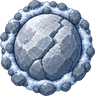
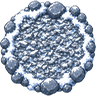
Îles Écume : le rocher tombe, des éboulis bouchent le trou (choix A de Kevin)
Le trou bouché montrait un rocher entier coincé et le texte « Le rocher a
dévalé dans le trou ! » : on ne savait pas si le rocher tombait ou bouchait
le trou. Image du trou bouché repeinte en éboulis (gravats, éclats de glace,
source Codex, tools/art/trou_ecume_eboulis.py) ; texte T-15 : « Le rocher
est tombé à l'étage du dessous ! Des éboulis ont bouché le trou. »

diff --git a/tools/art/trou_ecume_eboulis.py b/tools/art/trou_ecume_eboulis.py
@@ -1,0 +1,39 @@
+"""Trou bouché des Îles Écume, version « éboulis » (retour de Kevin, 2026-11-13).
+
+Le rocher poussé dans un trou tombe à l'étage du dessous : le trou bouché montre des gravats et des
+éclats de glace, plus un rocher entier. Source : `build/art/DECAL_TROU_ECUME_EBOULIS_r1.png` (Codex,
+référence `decal_trou_ecume_01`). Fond uni détouré, recadré sur l'anneau, réduit à 96 × 96.
+
+    python3 tools/art/trou_ecume_eboulis.py
+"""
+from PIL import Image, ImageFilter
+
+SOURCE = "build/art/DECAL_TROU_ECUME_EBOULIS_r1.png"
+CIBLE = "assets/world/interiors/decal_trou_ecume_bouche_01.png"
+TAILLE = 96
+SEUIL = 22  # distance de couleur au fond en dessous de laquelle le pixel est transparent
+DOUX = 18   # fondu du bord
+
+
+def main() -> None:
+	image = Image.open(SOURCE).convert("RGBA")
+	fond = image.getpixel((4, 4))[:3]
+	alpha = Image.new("L", image.size)
+	px, pa = image.load(), alpha.load()
+	for y in range(image.height):
+		for x in range(image.width):
+			r, g, b, _ = px[x, y]
+			d = max(abs(r - fond[0]), abs(g - fond[1]), abs(b - fond[2]))
+			pa[x, y] = 0 if d <= SEUIL else min(255, (d - SEUIL) * 255 // DOUX)
+	alpha = alpha.filter(ImageFilter.MinFilter(3))
+	image.putalpha(alpha)
+	image = image.crop(alpha.getbbox())
+	cote = max(image.size)
+	carre = Image.new("RGBA", (cote, cote))
+	carre.alpha_composite(image, ((cote - image.width) // 2, (cote - image.height) // 2))
+	carre.resize((TAILLE, TAILLE), Image.LANCZOS).save(CIBLE)
+	print(CIBLE)
+
+
+if __name__ == "__main__":
+	main()

diff --git a/docs/tech/etat-projet.md b/docs/tech/etat-projet.md
@@ -11,7 +11,7 @@ Mis à jour : 2026-11-12.
[2 lines of base64/hex data omitted]
 - **Porte du Parc Safari (2026-11-12, retour de Kevin sur la 0.37.0) :** l'enveloppe peinte de la Porte n'avait pas de sortie au nord (enveloppe commune avec la Maison Secrète) : on entrait dans le Parc en traversant un mur. Enveloppe propre `int_safari_porte_coque.png` avec une ouverture dérivée du poste de la Forêt [D] (`tools/art/safari_porte_coque.py`). Revue des 117 sorties hors sud des 60 intérieurs concernés : aucun autre cas. Dans la RC 0.37.1.
-- **Échelles des Îles Écume (2026-11-13, retour de Kevin sur le S24) :** au B3F, l'échelle qui monte (25, 3) et celle qui descend (25, 4) étaient collées et se lisaient comme une seule échelle ; la descendante est déplacée en (28, 4), arrivée en (27, 4) (`tools/plans/seafoam_b3f.txt`, données et référence régénérées). Seul cas d'échelles voisines des cinq étages. `tools/build_j24_seafoam.gd` ne compile plus (constantes de `Boulder` disparues) : scène modifiée à la main, puis repeinte par `build_daf10c_seafoam.gd`.
+- **Échelles des Îles Écume (2026-11-13, retour de Kevin sur le S24) :** au B3F, l'échelle qui monte (25, 3) et celle qui descend (25, 4) étaient collées et se lisaient comme une seule échelle ; la descendante est déplacée en (28, 4), arrivée en (27, 4) (`tools/plans/seafoam_b3f.txt`, données et référence régénérées). Seul cas d'échelles voisines des cinq étages. `tools/build_j24_seafoam.gd` ne compile plus (constantes de `Boulder` disparues) : scène modifiée à la main, puis repeinte par `build_daf10c_seafoam.gd`. **Trous bouchés (même jour, choix A de Kevin) :** le rocher tombe à l'étage du dessous et des éboulis bouchent le trou ; image `decal_trou_ecume_bouche_01` repeinte en gravats et éclats de glace (`tools/art/trou_ecume_eboulis.py`, source Codex), texte T-15 « Le rocher est tombé à l'étage du dessous ! Des éboulis ont bouché le trou. », aussi à la Route Victoire (même mécanique, trou bouché de la Route Victoire gardé avec son rocher).
[2 lines of base64/hex data omitted]
 - **RC 0.35.0 (jeu complet) :** construite (`74d58557`, `~/.pokemake/rc/0.35.0/`), installée sur l'A17 par-dessus la 0.34.1 ; détails dans `docs/tech/rc-0.35.0.md`. APK release de 778,7 Mo.

diff --git a/docs/design/dossier-27-iles-ecume.md b/docs/design/dossier-27-iles-ecume.md
@@ -643,7 +643,7 @@ Pépite s'ils n'existent pas encore.
 | T-12 | (B4F, RB) « Les rochers peuvent changer le cours de l'eau ! » |
 | T-13 | (B4F, RB) « DANGER ! Courant rapide ! » |
 | T-14 | (SURFER refusé, RB) « Le courant est beaucoup trop fort ! » |
-| T-15 | (rocher qui tombe, première fois) « Le rocher a dévalé dans le trou ! » |
+| T-15 | (rocher qui tombe, première fois) « Le rocher est tombé à l'étage du dessous ! Des éboulis ont bouché le trou. » (texte changé par Kevin le 2026-11-13 : le rocher tombe, des éboulis bouchent le trou ; l'ancien « Le rocher a dévalé dans le trou ! » faisait croire qu'il restait coincé) |
 
 ### 15.3 Artikodin
 
